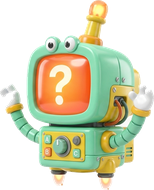
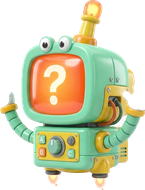
自動更新: ファイル更新

diff --git a/index.html b/index.html
@@ -335,7 +335,7 @@ const pupById = id => PUPS.find(p => p.id === id);
 // ═════════ スプライト画像（Gemini生成・すべて右向き）═════════
 const PUP_IMG = {}, PUP_RUN = {}, CAR_IMG = {}, TINT = new Map();
 const IMGDIR = 'images/2026/09';
-const ASSET_V = '?v=mtsq7eth';
+const ASSET_V = '?v=mtsqkg22';
 const BOSS_IMG = {};              // ステージボスの 1まい絵（0〜6 と うらボス true）
 const loadImg = src => { const im = new Image(); im.src = src; return im; };
 PUPS.forEach(P => {
